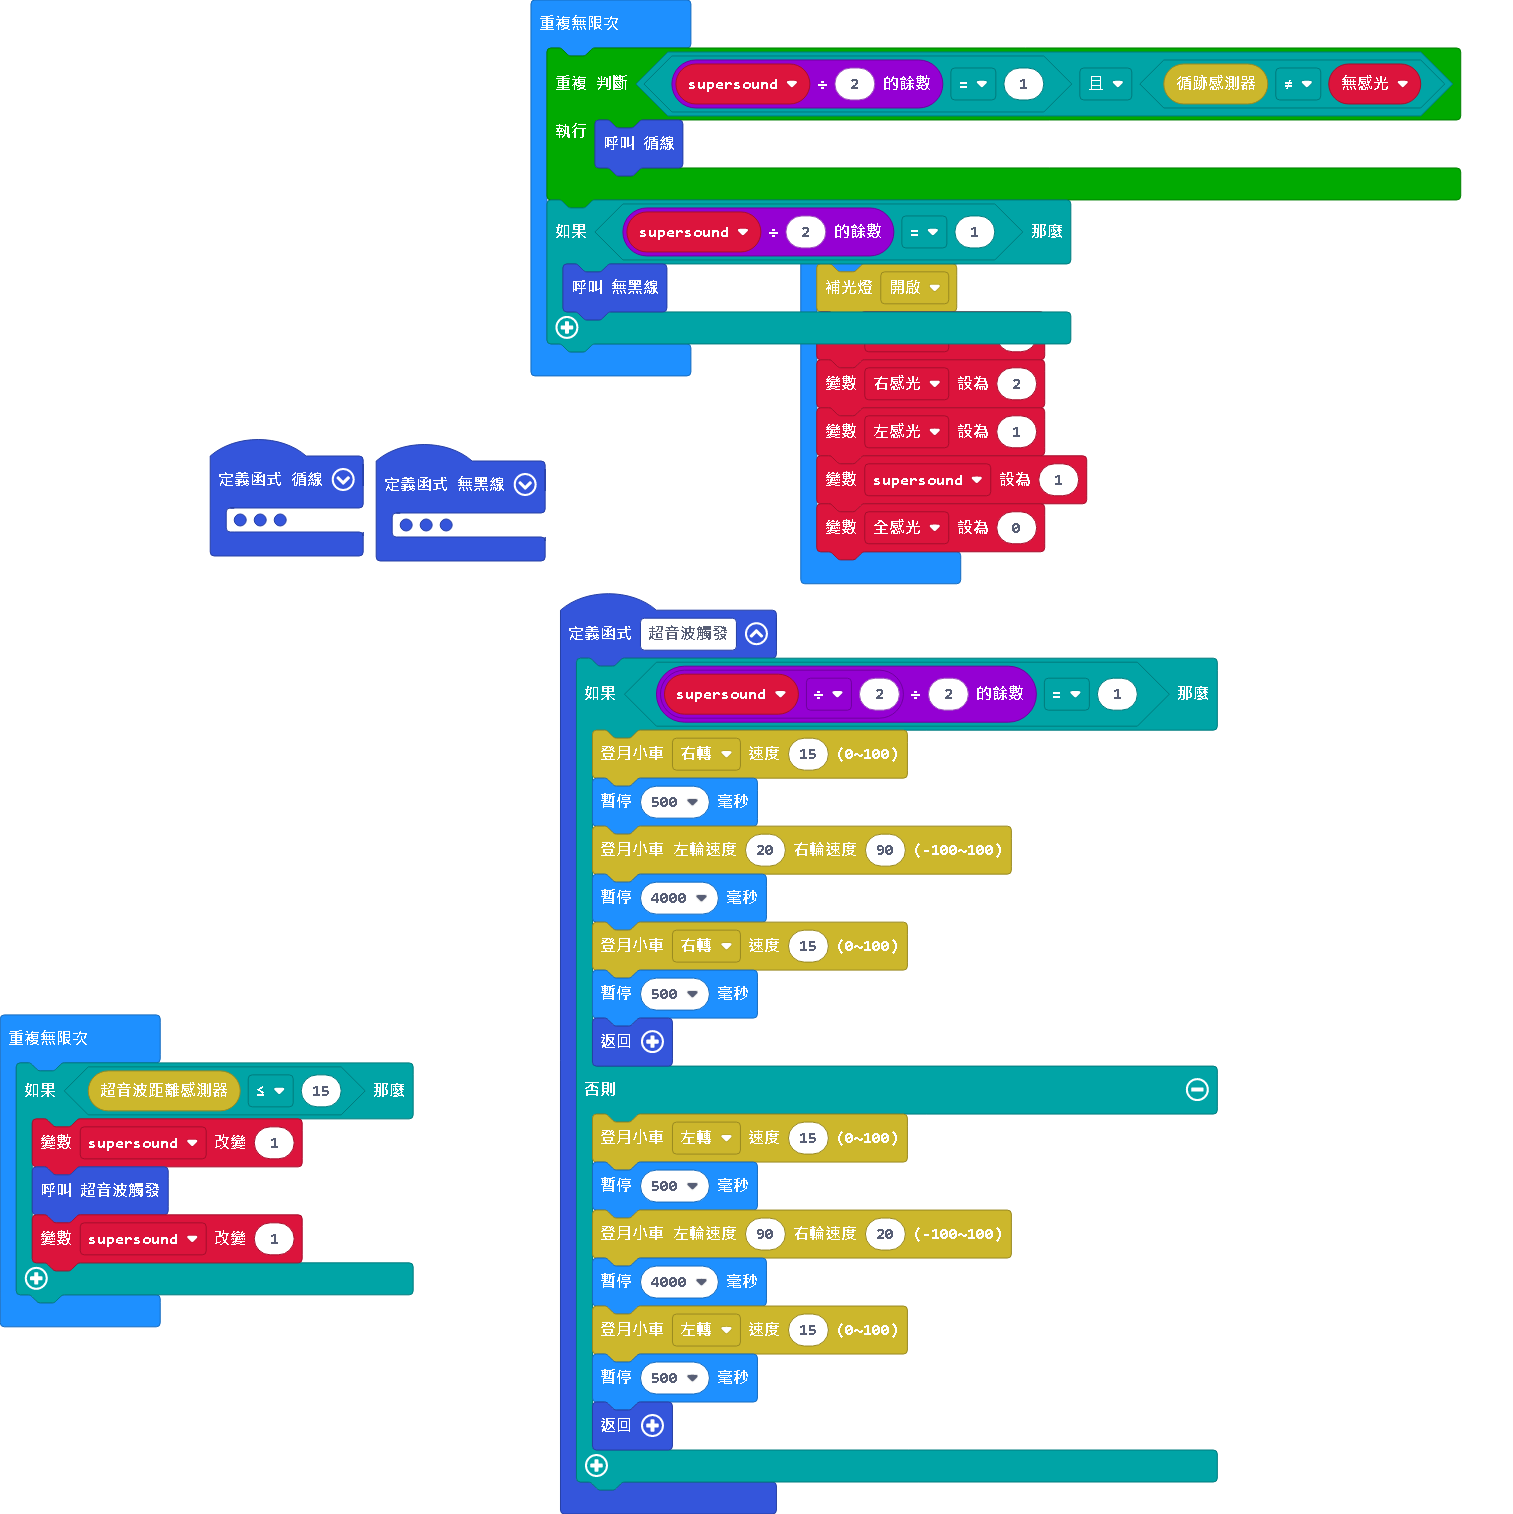
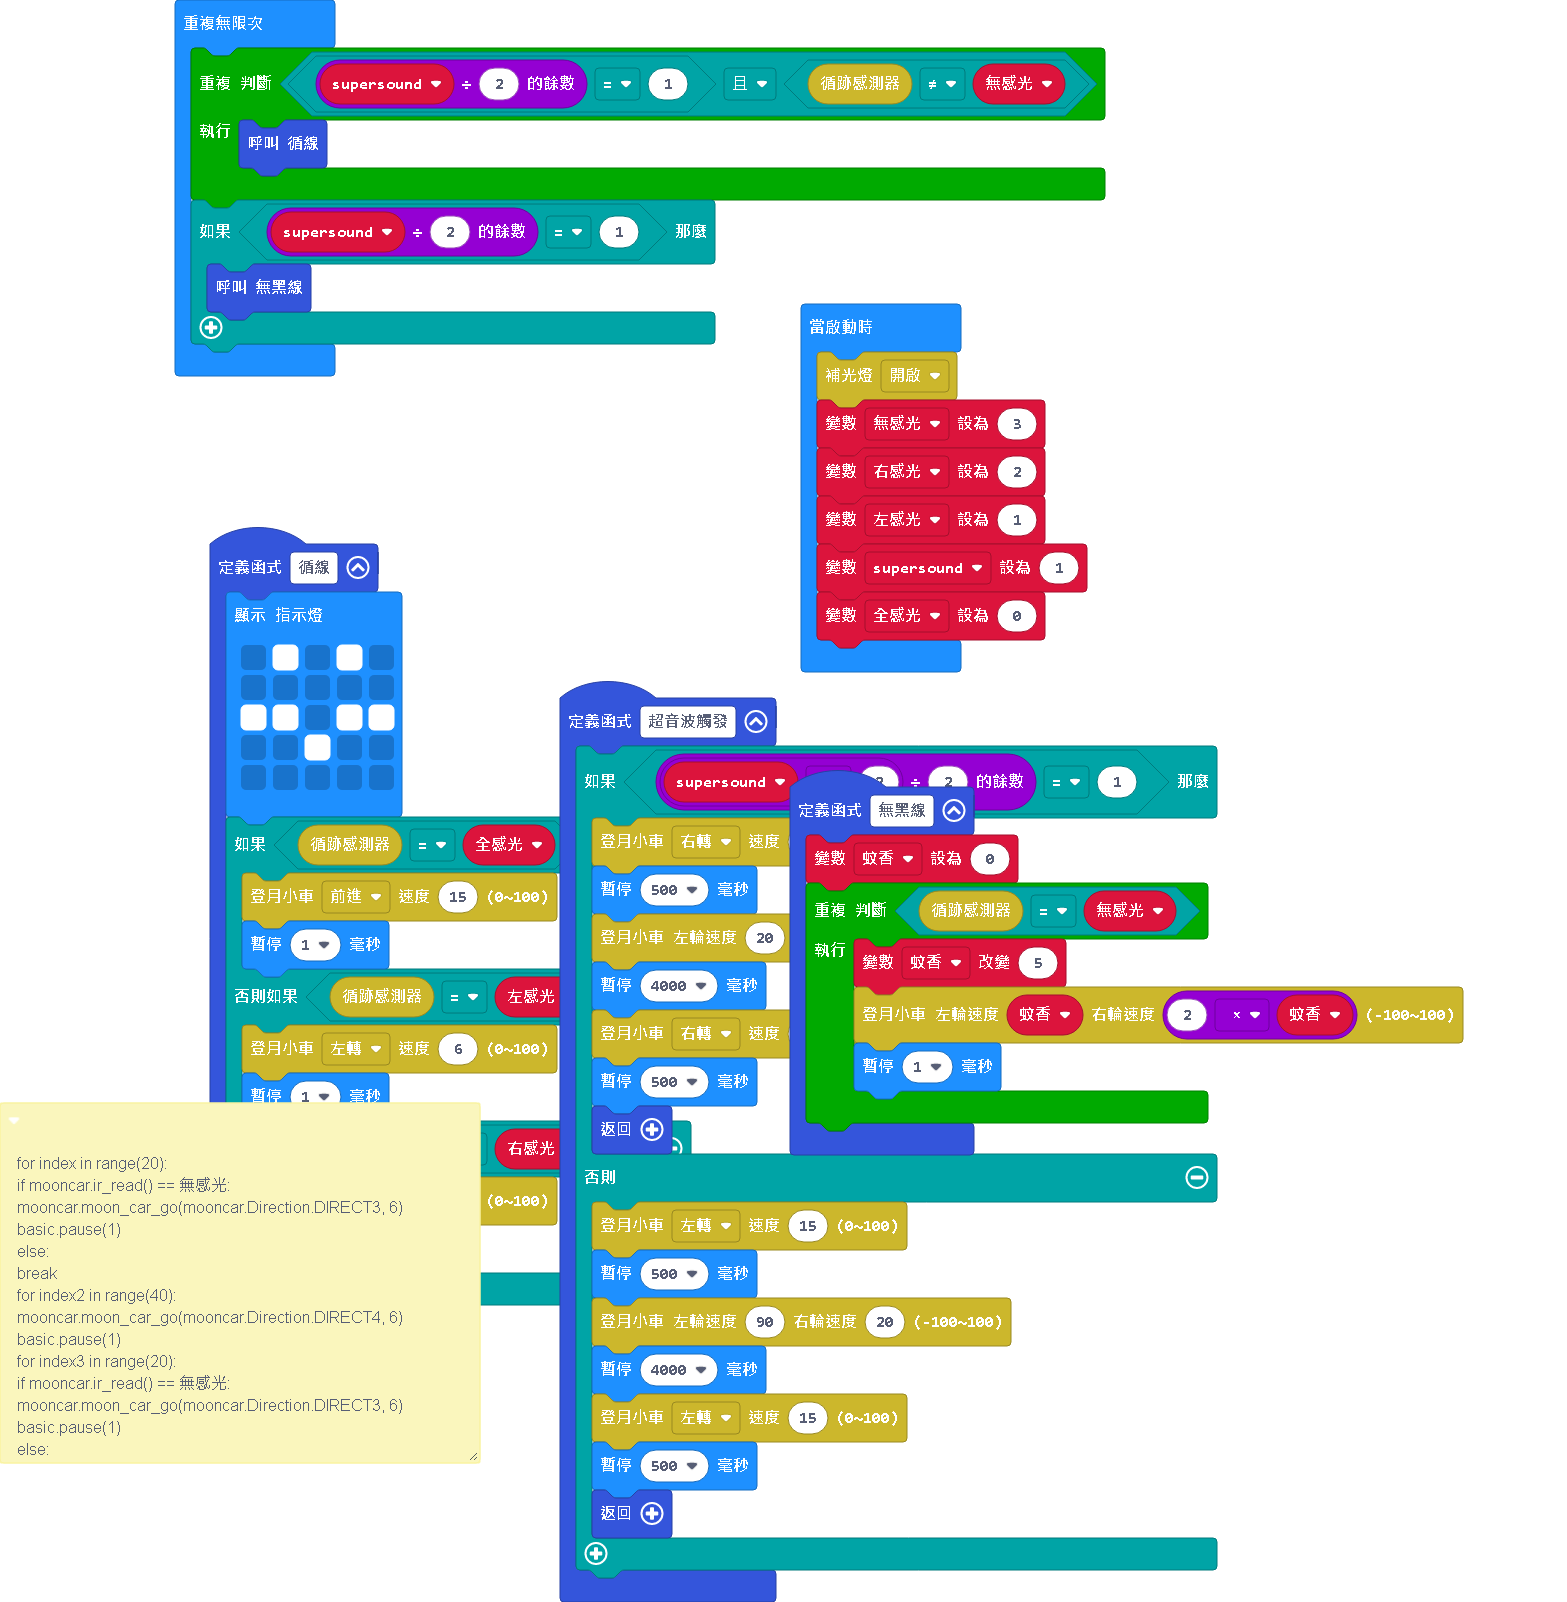
更新 main.blocks, main.ts, main.py

diff --git a/main.ts b/main.ts
@@ -37,63 +37,14 @@ function 超音波觸發 () {
     }
 }
 function 無黑線 () {
-    for (let index = 0; index < 20; index++) {
-        if (mooncar.IRRead() == 無感光) {
-            mooncar.MoonCarGo(mooncar.Direction.direct3, 6)
-            basic.pause(1)
-        } else {
-            break;
-        }
-    }
-    for (let index = 0; index < 40; index++) {
-        mooncar.MoonCarGo(mooncar.Direction.direct4, 6)
+    蚊香 = 0
+    while (mooncar.LineFollowerSensor() == 無感光) {
+        蚊香 += 5
+        mooncar.MoonCarLR(蚊香, 2 * 蚊香)
         basic.pause(1)
-    }
-    for (let index = 0; index < 20; index++) {
-        if (mooncar.IRRead() == 無感光) {
-            mooncar.MoonCarGo(mooncar.Direction.direct3, 6)
-            basic.pause(1)
-        } else {
-            break;
-        }
-    }
-    for (let index = 0; index < 100; index++) {
-        if (mooncar.IRRead() == 無感光) {
-            mooncar.MoonCarGo(mooncar.Direction.direct1, 12)
-            basic.pause(1)
-        } else {
-            break;
-        }
-    }
-    for (let index = 0; index < 100; index++) {
-        if (mooncar.IRRead() == 無感光) {
-            mooncar.MoonCarGo(mooncar.Direction.direct2, 50)
-            basic.pause(1)
-        } else {
-            break;
-        }
-    }
-    for (let index = 0; index < 1000; index++) {
-        if (mooncar.IRRead() == 無感光) {
-            mooncar.MoonCarGo(mooncar.Direction.direct3, 50)
-            basic.pause(1)
-        } else {
-            break;
-        }
-    }
-    for (let index = 0; index < 1000; index++) {
-        mooncar.MoonCarGo(mooncar.Direction.direct3, 50)
-        basic.pause(1)
-    }
-    for (let index = 0; index < 1000; index++) {
-        if (mooncar.IRRead() == 無感光) {
-            mooncar.MoonCarGo(mooncar.Direction.direct3, 50)
-            basic.pause(1)
-        } else {
-            break;
-        }
     }
 }
+let 蚊香 = 0
 let 全感光 = 0
 let supersound = 0
 let 左感光 = 0
@@ -113,6 +64,91 @@ basic.forever(function () {
         無黑線()
     }
 })
+/**
+ * for index in range(20):
+ * 
+ * if mooncar.ir_read() == 無感光:
+ * 
+ * mooncar.moon_car_go(mooncar.Direction.DIRECT3, 6)
+ * 
+ * basic.pause(1)
+ * 
+ * else:
+ * 
+ * break
+ * 
+ * for index2 in range(40):
+ * 
+ * mooncar.moon_car_go(mooncar.Direction.DIRECT4, 6)
+ * 
+ * basic.pause(1)
+ * 
+ * for index3 in range(20):
+ * 
+ * if mooncar.ir_read() == 無感光:
+ * 
+ * mooncar.moon_car_go(mooncar.Direction.DIRECT3, 6)
+ * 
+ * basic.pause(1)
+ * 
+ * else:
+ * 
+ * break
+ * 
+ * for index4 in range(100):
+ * 
+ * if mooncar.ir_read() == 無感光:
+ * 
+ * mooncar.moon_car_go(mooncar.Direction.DIRECT1, 12)
+ * 
+ * basic.pause(1)
+ * 
+ * else:
+ * 
+ * break
+ * 
+ * for index5 in range(100):
+ * 
+ * if mooncar.ir_read() == 無感光:
+ * 
+ * mooncar.moon_car_go(mooncar.Direction.DIRECT2, 50)
+ * 
+ * basic.pause(1)
+ * 
+ * else:
+ * 
+ * break
+ * 
+ * for index6 in range(1000):
+ * 
+ * if mooncar.ir_read() == 無感光:
+ * 
+ * mooncar.moon_car_go(mooncar.Direction.DIRECT3, 50)
+ * 
+ * basic.pause(1)
+ * 
+ * else:
+ * 
+ * break
+ * 
+ * for index7 in range(1000):
+ * 
+ * mooncar.moon_car_go(mooncar.Direction.DIRECT3, 50)
+ * 
+ * basic.pause(1)
+ * 
+ * for index8 in range(1000):
+ * 
+ * if mooncar.ir_read() == 無感光:
+ * 
+ * mooncar.moon_car_go(mooncar.Direction.DIRECT3, 50)
+ * 
+ * basic.pause(1)
+ * 
+ * else:
+ * 
+ * break
+ */
 basic.forever(function () {
     if (mooncar.UltrasonicSensor() <= 15) {
         supersound += 1

diff --git a/main.py b/main.py
@@ -33,6 +33,13 @@ def 超音波觸發():
         basic.pause(500)
         return
 def 無黑線():
+    global 蚊香
+    蚊香 = 0
+    while mooncar.line_follower_sensor() == 無感光:
+        蚊香 += 5
+        mooncar.moon_car_lr(蚊香, 2 * 蚊香)
+        basic.pause(1)
+'''
     for index in range(20):
         if mooncar.ir_read() == 無感光:
             mooncar.moon_car_go(mooncar.Direction.DIRECT3, 6)
@@ -75,6 +82,8 @@ def 無黑線():
             basic.pause(1)
         else:
             break
+'''
+蚊香 = 0
 全感光 = 0
 supersound = 0
 左感光 = 0
@@ -95,9 +104,9 @@ def on_forever():
 basic.forever(on_forever)
 
 def on_forever2():
-    global 右感光
+    global supersound
     if mooncar.ultrasonic_sensor() <= 15:
-        右感光 += 1
+        supersound += 1
         超音波觸發()
-        右感光 += 1
+        supersound += 1
 basic.forever(on_forever2)
